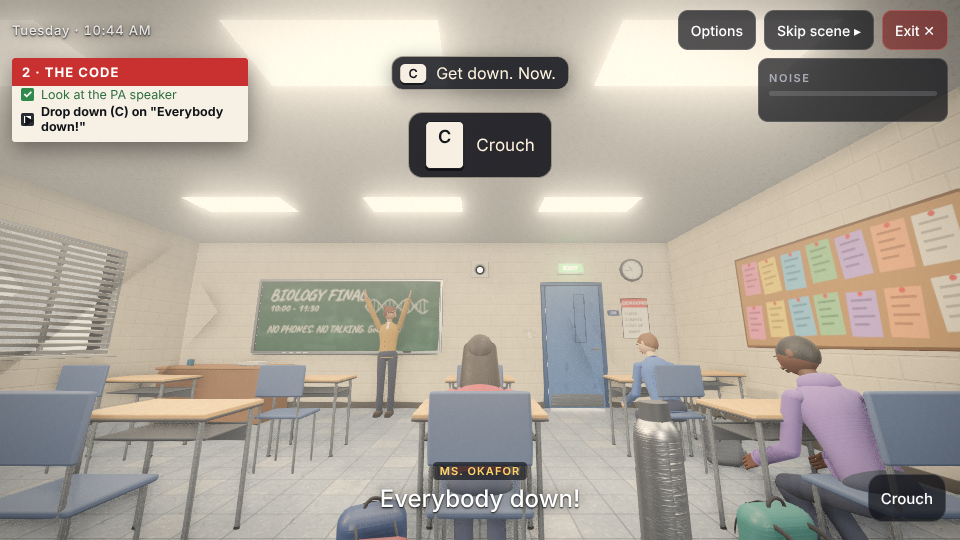
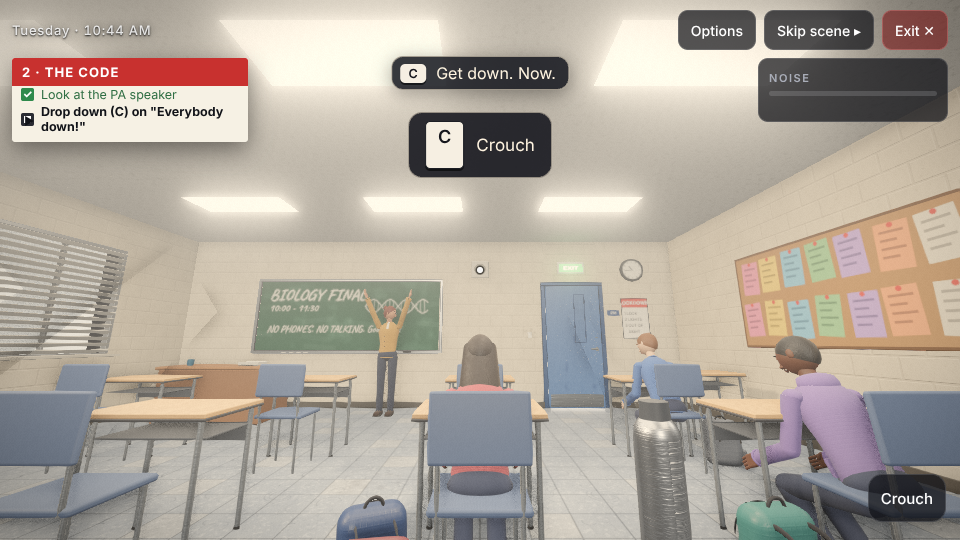
Faces: 60-degree front cone, Ms. Okafor/Theo pause instead of walking into the camera; ring marker delay counts from the first ring
Claude-Session: https://claude.ai/code/session_018KZLyLNugzHBmBVNxuDHxq

diff --git a/src/game/game.ts b/src/game/game.ts
@@ -42,6 +42,8 @@ interface Mover {
   done: () => void;
   /** already stepped around the player once on this walk */
   detoured?: boolean;
+  /** seconds paused so far to keep a face out of the camera's 1 m */
+  waited?: number;
 }
 
 const FOUND_KEY = 'room214.endings';
@@ -100,6 +102,9 @@ const PHASE_TASKS: Partial<Record<SceneId, TaskId[]>> = {
   waiting: ['holdStill', 'breatheTheo', 'schoolAlert', 'whisper', 'stayDown'],
   door: ['readTiming', 'decide'],
 };
+
+/** cos(60 deg): the cone in front of a face in which it counts as seen. */
+const FACE_CONE = 0.5;
 
 /** Screen centre (crosshair), shared to avoid per-frame allocations. */
 const CENTER = new THREE.Vector2(0, 0);
@@ -585,7 +590,14 @@ export class Game {
       const pos = m.p.root.position;
       let budget = m.speed * dt;
       // Ms. Okafor and Theo step around the player instead of walking into the camera
-      if (!m.detoured && m.path.length && (m.p === this.world.teacher || m.p === this.world.theo)) this.detourAroundPlayer(m);
+      const face = m.p === this.world.teacher || m.p === this.world.theo;
+      if (!m.detoured && m.path.length && face) this.detourAroundPlayer(m);
+      // and pause (up to 2 s) rather than bring the face inside 1 m in front of the camera
+      if (face && m.path.length && (m.waited ?? 0) < 2 && this.faceStepTooClose(m, budget)) {
+        m.waited = (m.waited ?? 0) + dt;
+        m.p.walking = false;
+        continue;
+      }
       while (budget > 0 && m.path.length) {
         const [tx, tz] = m.path[0];
         const dx = tx - pos.x;
@@ -610,6 +622,22 @@ export class Game {
       this.movers = this.movers.filter((m) => !finished.includes(m));
       finished.forEach((m) => m.done());
     }
+  }
+
+  private faceStepTooClose(m: Mover, budget: number): boolean {
+    const pos = m.p.root.position;
+    const [tx, tz] = m.path[0];
+    const d = Math.hypot(tx - pos.x, tz - pos.z);
+    if (d < 1e-3) return false;
+    const k = Math.min(budget, d) / d;
+    m.p.head.getWorldPosition(this.faceV);
+    this.faceV.y += 0.1 * m.p.root.scale.y;
+    this.camera.getWorldPosition(this.camV);
+    const now = this.faceV.distanceTo(this.camV);
+    this.faceV.x += (tx - pos.x) * k;
+    this.faceV.z += (tz - pos.z) * k;
+    const next = this.faceV.distanceTo(this.camV);
+    return next < 1.04 && next < now && this.facing(m.p, this.camV.x, this.camV.y, this.camV.z) > FACE_CONE;
   }
 
   private detourAroundPlayer(m: Mover): void {
@@ -852,6 +880,7 @@ export class Game {
     if (!pack) return;
     pack.ringing = true;
     this.flags.ringing = id;
+    this.ringStart = this.clock.time;
     const p = pack.mesh.position;
     this.audio.ringtone({ x: p.x, y: 0.3, z: p.z });
     this.ui.caption("[a phone starts ringing. Someone's backpack.]", 3);
@@ -1024,6 +1053,8 @@ export class Game {
   private faceV = new THREE.Vector3();
   private camV = new THREE.Vector3();
   faceMinAt = '';
+  /** sim time the backpack phone started ringing (guidance waits 6 s of ringing before a marker) */
+  ringStart = 0;
   faceBlocks = 0;
   private fwdV = new THREE.Vector3();
   /** How much the body faces a point: 1 straight at it, <= 0 the point is behind them. */
@@ -1046,7 +1077,7 @@ export class Game {
       if (p === w.theo && this.flags.theoFollowing) continue;
       p.head.getWorldPosition(this.faceV);
       this.faceV.y += 0.1 * p.root.scale.y;
-      if (this.facing(p, this.player.x, this.player.eye, this.player.z) < 0) continue;
+      if (this.facing(p, this.player.x, this.player.eye, this.player.z) < FACE_CONE) continue;
       const dy = this.player.eye - this.faceV.y;
       const need = Math.sqrt(Math.max(0, 1.04 * 1.04 - dy * dy));
       const dx = this.player.x - this.faceV.x;
@@ -1089,13 +1120,15 @@ export class Game {
       p.head.getWorldPosition(this.faceV);
       this.faceV.y += 0.1 * p.root.scale.y;
       const d = this.faceV.distanceTo(this.camV);
-      // only a face you are in front of counts as seen (behind/beside it you see hair and shoulders)
-      const front = this.facing(p, this.camV.x, this.camV.y, this.camV.z) > 0;
+      // a face counts as seen only within ~60 degrees of where it looks (beside or behind it you
+      // see a profile, hair and shoulders)
+      const f = this.facing(p, this.camV.x, this.camV.y, this.camV.z);
+      const front = f > FACE_CONE;
       if (playing && front && d < this.faceMin) {
         this.faceMin = d;
         this.faceMinAt = `${p.name} ${sc} player(${this.player.x.toFixed(2)},${this.player.z.toFixed(2)},${this.player.stance}) face(${this.faceV.x.toFixed(2)},${this.faceV.y.toFixed(2)},${this.faceV.z.toFixed(2)})`;
       }
-      const want = front ? THREE.MathUtils.clamp((1.2 - d) / 0.3, 0, 1) : 0;
+      const want = f > 0 ? THREE.MathUtils.clamp((1.2 - d) / 0.3, 0, 1) : 0;
       p.shy += (want - p.shy) * Math.min(1, dt * 6);
     }
   }
@@ -1688,7 +1721,7 @@ export class Game {
       for (const f of faces) {
         if (Math.hypot(px - f.x, pz - f.z) >= f.r) continue;
         this.faceV.set(f.x, this.player.eye, f.z);
-        if (this.facing(f.p, px, this.player.eye, pz) >= 0) return false;
+        if (this.facing(f.p, px, this.player.eye, pz) >= FACE_CONE) return false;
       }
       return true;
     };

diff --git a/tests/e2e/endings.spec.ts b/tests/e2e/endings.spec.ts
@@ -62,7 +62,8 @@ test('ending 1 - everyone went home: every task, all six phases', async ({ page 
   await clickUntil(page, 'pack:malik', () => task(page, 'ringingPhone'));
   await walk(page, [[-3.9, -0.85], [-3.9, 0.4]]);
   await clickUntil(page, 'blinds', () => task(page, 'blinds'));
-  await walk(page, [[-3.9, -2.75], [1.5, -2.75], [2.1, -3.6]]);
+  // to the door from straight in front (Ms. Okafor crouches on its left)
+  await walk(page, [[-3.9, -2.75], [1.5, -2.75], [2.75, -2.9], [2.75, -3.45]]);
   await clickUntil(page, 'doorWindow', () => task(page, 'coverWindow'));
   await walk(page, [[3.0, -3.35], [3.95, -3.4]]);
   await page.keyboard.down('e');

diff --git a/src/game/guidance.ts b/src/game/guidance.ts
@@ -298,7 +298,9 @@ export class Guidance {
       this.whispered.add(c.task + c.id);
       g.say(c.whisper.who, c.whisper.text, { whisper: true });
     }
-    const delayed = !!c?.delay && this.shown < c.delay;
+    // the ringing phone: no marker for the first 6 s of ringing (counted from the first ring,
+    // not from when it became the current task)
+    const delayed = !!c?.delay && (c.task === 'ringingPhone' ? g.clock.time - g.ringStart : this.shown) < c.delay;
     const full = this.mode === 'full' && !!c && !delayed && !s.markersHidden;
 
     // card (full + minimal)
